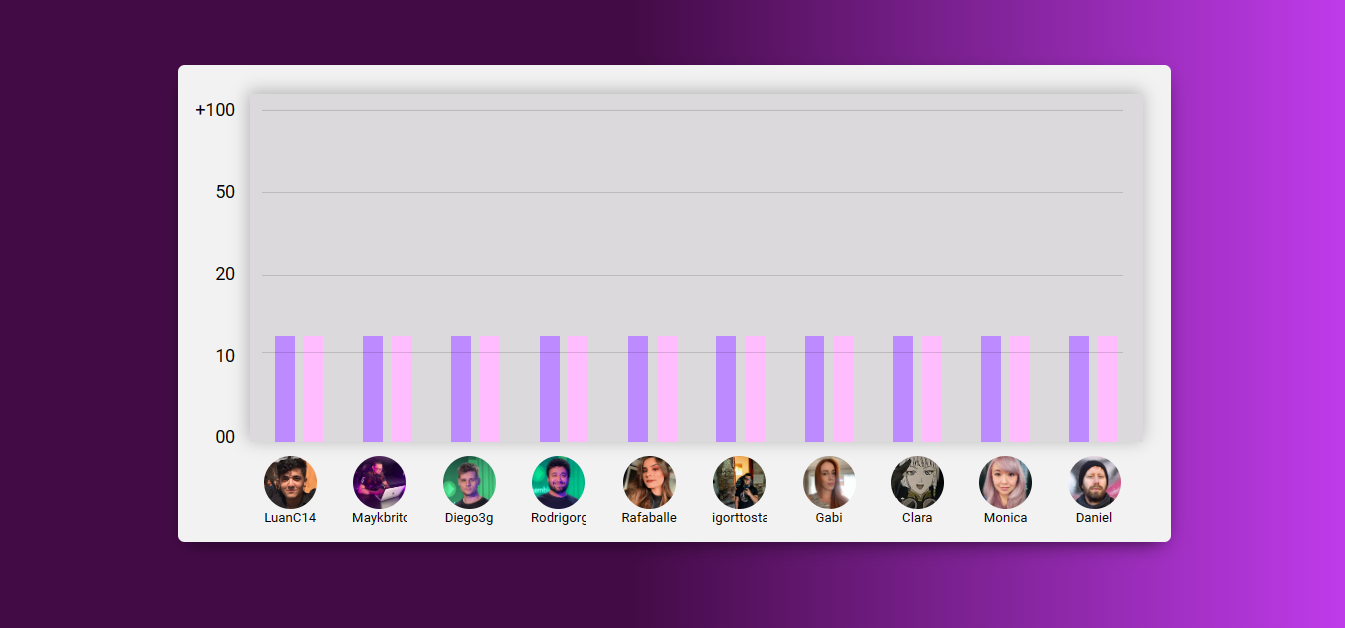
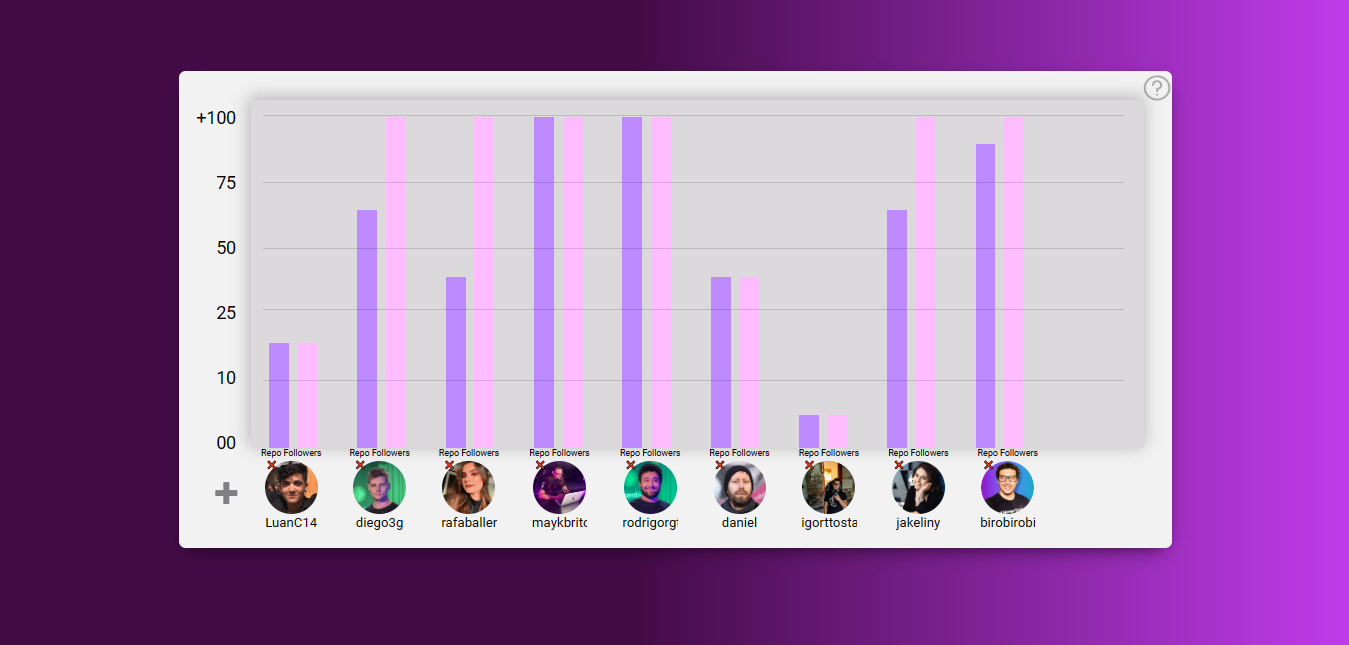
Final Edits

diff --git a/js/app.js b/js/app.js
@@ -17,36 +17,44 @@ class dataUser {
     }
 
     async add(username) {
-        this.userData = await GithubUsers.search(username)
+        try{
+            const newUser = await GithubUsers.search(username)
+            const userExists = this.users.find(user => user.login == newUser.login )
 
-        if (this.userData.login === undefined || null) {
-            return alert("Usuário não encontrado")
+            if (newUser.login === undefined || null) {
+                throw new Error("Usuário não encontrado")
+            }
+            if(userExists) {
+                throw new Error("O usuário já está presente na lista")
+            }
+    
+            this.users = [...this.users, newUser]
+            this.updateRoot()
+            this.save()
         }
-
-        this.users = [...this.users, this.userData]
-        this.updateRoot()
-        this.save()
+        catch(error){
+            alert(error.message)
+        }
     }
 
     onAdd() {
         const addButton = this.root.querySelector('.add-user .add-button')
-
         addButton.onclick = () => {
 
             if (this.users.length >= 10) {
                 return alert("Apenas 10 usuários permitidos")
             }
-
             const user = prompt("Digite o username do Github")
+            if(user == null || undefined) return
             this.add(user)
         }
     }
 
     delete(user) {
         const filteredUser = this.users
-            .filter(entry => entry.name != user.name)
+            .filter(entry => entry.login != user.login)
         this.users = filteredUser
-        this.update()
+        this.updateRoot()
         this.save()
     }
 }
@@ -67,18 +75,19 @@ export class appUpdate extends dataUser {
 
             profile.querySelector('li img').src = `https://github.com/${user.login}.png`
             profile.querySelector('li p').textContent = user.login
+            profile.querySelector('.delete-button').onclick = () => {
+                this.delete(user)
+            }
 
             handleHeightBars.handleBarRepo(user.public_repos, bars)
             handleHeightBars.handleBarFollow(user.followers, bars)
-
             barsGraphic.append(bars)
             profilesList.append(profile)
         })
     }
-    
+
     addBars() {
         const ulBar = document.createElement('ul')
-
         ulBar.innerHTML = `
         <ul class="data-list">
         <li class="repo-bar"></li>
@@ -88,12 +97,16 @@ export class appUpdate extends dataUser {
         return ulBar
     }
 
-
     addProfile() {
         const ulUser = document.createElement('ul')
         ulUser.innerHTML = `
         <ul class="profile-list">
                 <li>
+                <div class="description">
+                <span>Repo</span>
+                <span>Followers</span>
+                </div>
+                    <button class="delete-button">❌</button>
                     <img src="https://github.com/igorttosta.png" alt="">
                     <p>Igorttosta</p>
                 </li>
@@ -108,7 +121,7 @@ export class appUpdate extends dataUser {
         ulNodeBars.forEach((ul) => {
             ul.remove()
         })
-
+        
         ulNodeProfile.forEach((ul) => {
             ul.remove()
         })

diff --git a/style.css b/style.css
@@ -11,13 +11,22 @@ body {
     background: linear-gradient(90deg, rgb(67, 11, 70) 47%, rgb(193, 60, 237) 100%);
 }
 
+#graphic-component {
+    margin: 70px auto;
+    width: 900px;
+    background-color: #f2f2f2;
+    box-shadow: 0px 6px 19px -8px rgba(23,1,23,1);
+    padding: 16px;
+    border-radius: 6px;
+  }
+
 .add-user {
     position: absolute;
     top: 432px;
     margin-left: 15px;
 }
 
-.add-button {
+.add-user .add-button {
     background: none;
     border: none;
     cursor: pointer;
@@ -25,24 +34,13 @@ body {
     font-size: 28px;
 }
 
-#graphic-component {
-  margin: 70px auto;
-  width: 900px;
-
-  background-color: #f2f2f2;
-  box-shadow: 0px 6px 19px -8px rgba(23,1,23,1);
-  padding: 16px;
-  border-radius: 6px;
-}
-
 .columns {
   display: flex;
 }
 
-.scale-y {
+.columns .scale-y {
   height: 400px;
   width: 50px;
-
   display: flex;
   flex-direction: column;
   gap: 40px;
@@ -54,41 +52,12 @@ body {
 .scale-y p:last-child {
     margin-bottom:70px;
 }
-.area-graphic {
+.columns .area-graphic {
     display: flex;
     flex-direction: column;
     justify-content: end;
     width: 100%;
     padding: 10px 10px 0 0;
-}
-
-/*Marcação de traços cinzas no gráfico, referentes as quantidades da escala Y*/
-.markeup1, .markeup2, .markeup3, .markeup4, .markeup5 {
-    position: absolute;
-    border-bottom: 1px solid rgba(0, 0, 0, 0.141);
-    width: 780px;
-    margin-left: 10px;    
-
-}
-
-.markeup1 {
-    top: 110px;
-}
-
-.markeup2 {
-    top: 170px;
-}
-
-.markeup3 {
-    top: 230px;
-}
-
-.markeup4 {
-    top: 285px;
-}
-
-.markeup5 {
-    top: 350px
 }
 
 .bars {
@@ -101,6 +70,7 @@ body {
     padding-left: 12px;
 }
 
+/*Criada via Javascript e inseridas na DIV Bars*/
 .data-list {
     display: flex;
     align-items: flex-end;
@@ -123,12 +93,22 @@ body {
 .follower-bar {
     background: #ffbdff;
 }
-
 .scale-x {
     display: flex;
     gap: 32px;
     min-height: 75px;
     padding-left: 12px;
+}
+
+/*Criada via Javascript e inseridas na DIV scale-X*/
+.delete-button {
+    background: none;
+    border: none;
+    position: absolute;
+    font-size: 8px;
+    margin-bottom: 45px;
+    margin-right: 35px;
+    cursor: pointer;
 }
 
 .profile-list li {
@@ -153,4 +133,60 @@ body {
     font-size: 12px;
     max-width: 50px;
     overflow: hidden;
+}
+
+.about-button {
+    width: 50px;
+    margin-left: 855px;
+}
+
+.about-button button {
+    position: absolute;
+    z-index: 2;
+    margin-top: 73px;
+    top: 0;
+    background: none;
+    border: none;
+    cursor: pointer;
+    transition: .3s;
+}
+
+.about-button img {
+    opacity: 0.3;
+    width: 30px;
+}
+
+.description {
+    position: absolute;
+    font-size: 9px;
+    margin-bottom: 65px;
+}
+
+/*Marcação de traços cinzas no gráfico, referentes as quantidades da escala Y*/
+.markeup1, .markeup2, .markeup3, .markeup4, .markeup5 {
+    position: absolute;
+    border-bottom: 1px solid rgba(0, 0, 0, 0.141);
+    width: 780px;
+    margin-left: 10px;    
+}
+.markeup1 {
+    top: 110px;
+}
+.markeup2 {
+    top: 170px;
+}
+.markeup3 {
+    top: 230px;
+}
+.markeup4 {
+    top: 285px;
+}
+.markeup5 {
+    top: 350px
+}
+
+.hide {
+    display: none;
+    visibility: hidden;
+    opacity: 0;
 }

diff --git a/index.html b/index.html
@@ -14,14 +14,18 @@
 </head>
 
 <body>
+    
     <div id="graphic-component">
+
+        <div class="about-button">
+            <button title="Descrição"><img src="./assets/interrogação.png" alt=""></button>
+        </div>
 
         <div class="add-user">
             <button class="add-button" title="Adicione um usuário">✚</button>
         </div>
-        
+
         <div class="columns">
-            
             <div class="scale-y">
                 <p>+100</p>
                 <p>75</p>
@@ -32,18 +36,15 @@
             </div>
 
             <div class="area-graphic">
+                <span class="markeup1"></span>
+                <span class="markeup2"></span>
+                <span class="markeup3"></span>
+                <span class="markeup4"></span>
+                <span class="markeup5"></span>
 
-                    <span class="markeup1"></span>
-                    <span class="markeup2"></span>
-                    <span class="markeup3"></span>
-                    <span class="markeup4"></span>
-                    <span class="markeup5"></span>
-                
-                <div class="bars">
-                </div>
+                <div class="bars"></div>
 
-                <div class="scale-x">
-                </div>
+                <div class="scale-x"></div>
             </div>
         </div>
     </div>

diff --git a/js/main.js b/js/main.js
@@ -1,3 +1,9 @@
 import { appUpdate } from "./app.js";
 
 new appUpdate('#graphic-component')
+
+const buttonInfo = document.querySelector('.about-button')
+
+buttonInfo.addEventListener('click', () => {
+    alert("O gráfico é aproximado, por exemplo, as quantidades entre 11 a 24 estarão representadas na intermediária entre 10 e 25")
+})

diff --git a/README.md b/README.md
@@ -1,2 +1,8 @@
->Obs: Apenas a estrutura HTML e CSS, em breve será feito o consumo da API e também adicionado o botão + input para adicionar usuários
+## Gráfico simples em barras, feito apenas com HTML e CSS e algumas interações com Javascript
+
+- Consumido dados da API do Github via Fetch
+- Programação orientada a objetos
+- HTML, CSS e Javascript
+
+> Nele você pode adicionar qualquer perfil do github e avaliar a partipação do usuário referente a quantidade de seguidores e de repositórios
 ![preview](./others/graphic.png)
